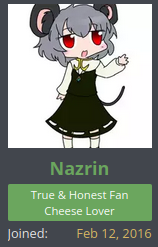
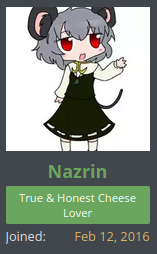
Add second after example image

Changed region(s): [[0.0255, 0.0, 0.9682, 0.9919]]

diff --git a/index.html b/index.html
@@ -103,6 +103,10 @@
             <img src="img/after.png" alt="After">
             <p>to this.</p>
         </div>
+        <div class="example">
+            <img src="img/after2.png" alt="After 2025">
+            <p>or this.</p>
+        </div>
     </div>
 
     <script>
